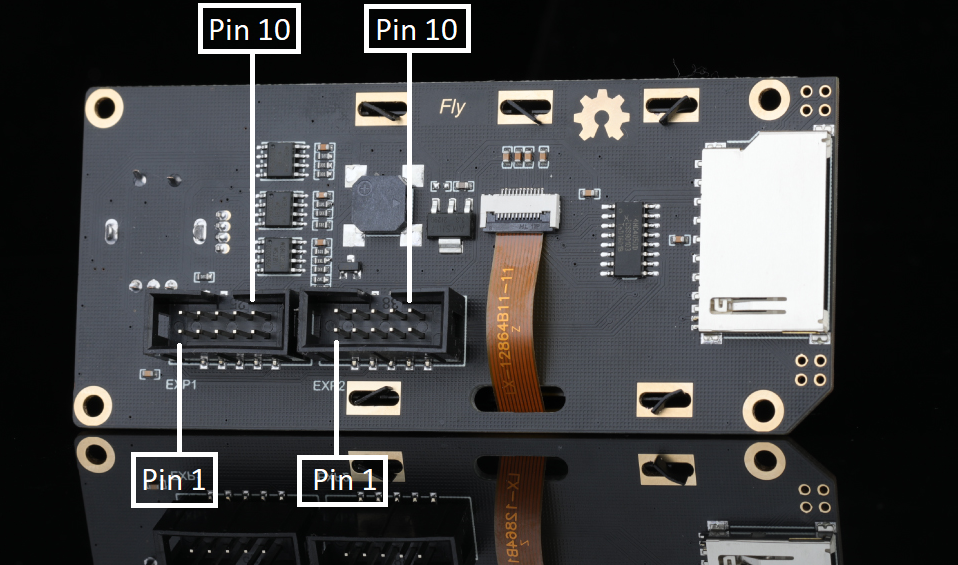
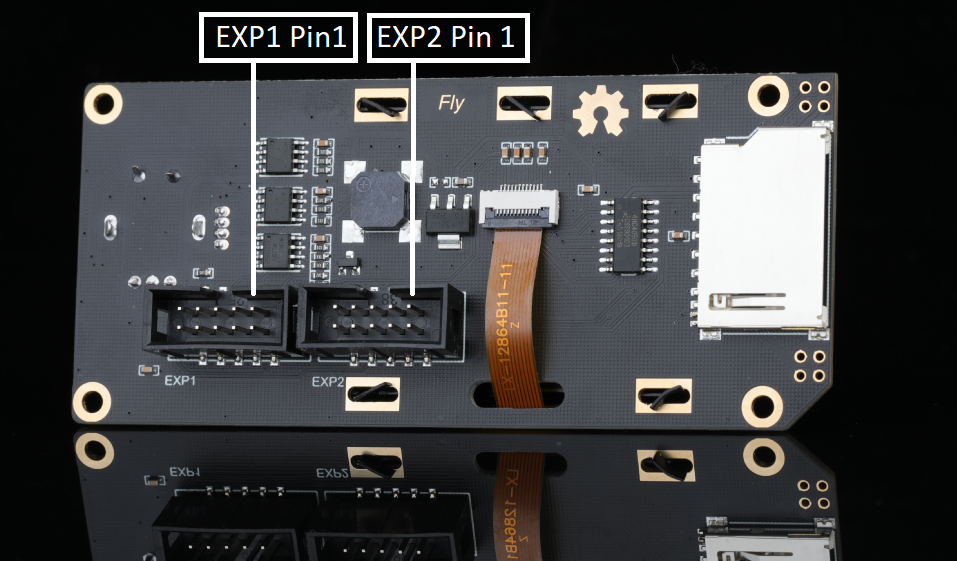
12864 pin fix

diff --git a/pages/mydoc/fly-displays/fly-mini12864/fly_mini12864_pins.md b/pages/mydoc/fly-displays/fly-mini12864/fly_mini12864_pins.md
@@ -45,16 +45,16 @@ caption=display_cap1
 
 |Socket|Pin Number|Pin Name 1|Pin Name 2|Alias|Note|
 | :------------- |:-------------|:-------------|:-------------|:-------------|:-------------|
-|EXP1|1|5v|VCC|EXP1_10||
-|EXP1|2|GND|GND|EXP1_9||
-|EXP1|3|LCD_D7|Blue|EXP1_8||
-|EXP1|4|LCD_D6|Green|EXP1_7||
-|EXP1|5|LCD_D5|Red|EXP1_6|Neopixel Pin|
-|EXP1|6|LCD_D4|LCD_RST|EXP1_5||
-|EXP1|7|LCD_RS|LCD_A0|EXP1_4||
-|EXP1|8|LCD_EN|LCD_CS|EXP1_3||
-|EXP1|9|LCD_BTN_ENC|BTN_ENC|EXP1_2||
-|EXP1|10|BEEP|BEEP|EXP1_1||
+|EXP1|10|5v|VCC|EXP1_10||
+|EXP1|9|GND|GND|EXP1_9||
+|EXP1|8|LCD_D7|Blue|EXP1_8||
+|EXP1|7|LCD_D6|Green|EXP1_7||
+|EXP1|6|LCD_D5|Red|EXP1_6|Neopixel Pin|
+|EXP1|5|LCD_D4|LCD_RST|EXP1_5||
+|EXP1|4|LCD_RS|LCD_A0|EXP1_4||
+|EXP1|3|LCD_EN|LCD_CS|EXP1_3||
+|EXP1|2|LCD_BTN_ENC|BTN_ENC|EXP1_2||
+|EXP1|1|BEEP|BEEP|EXP1_1||
 
 <div class="datatable-end"></div>
 
@@ -64,16 +64,16 @@ caption=display_cap1
 
 |Socket|Pin Number|Pin Name 1|Pin Name 2|Alias|Note|
 | :------------- |:-------------|:-------------|:-------------|:-------------|:-------------|
-|EXP2|1|KILL|KILL|EXP2_10||
-|EXP2|2|GND|GND|EXP2_9||
-|EXP2|3|RST|RST|EXP2_8||
-|EXP2|4|LCD_CD|CD|EXP2_7||
-|EXP2|5|LCD_MOSI|MOSI|EXP2_6||
-|EXP2|6|LCD_BTN_EN2|BTN_EN2|EXP2_5||
-|EXP2|7|LCD_SS|SS|EXP2_4||
-|EXP2|8|LCD_BTN_EN1|BTN_EN1|EXP2_3||
-|EXP2|9|LCD_SCK|SCK|EXP2_2||
-|EXP2|10|LCD_MISO|MISO|EXP2_1||
+|EXP2|10|KILL|KILL|EXP2_10||
+|EXP2|9|GND|GND|EXP2_9||
+|EXP2|8|RST|RST|EXP2_8||
+|EXP2|7|LCD_CD|CD|EXP2_7||
+|EXP2|6|LCD_MOSI|MOSI|EXP2_6||
+|EXP2|5|LCD_BTN_EN2|BTN_EN2|EXP2_5||
+|EXP2|4|LCD_SS|SS|EXP2_4||
+|EXP2|3|LCD_BTN_EN1|BTN_EN1|EXP2_3||
+|EXP2|2|LCD_SCK|SCK|EXP2_2||
+|EXP2|1|LCD_MISO|MISO|EXP2_1||
 
 <div class="datatable-end"></div>
 
